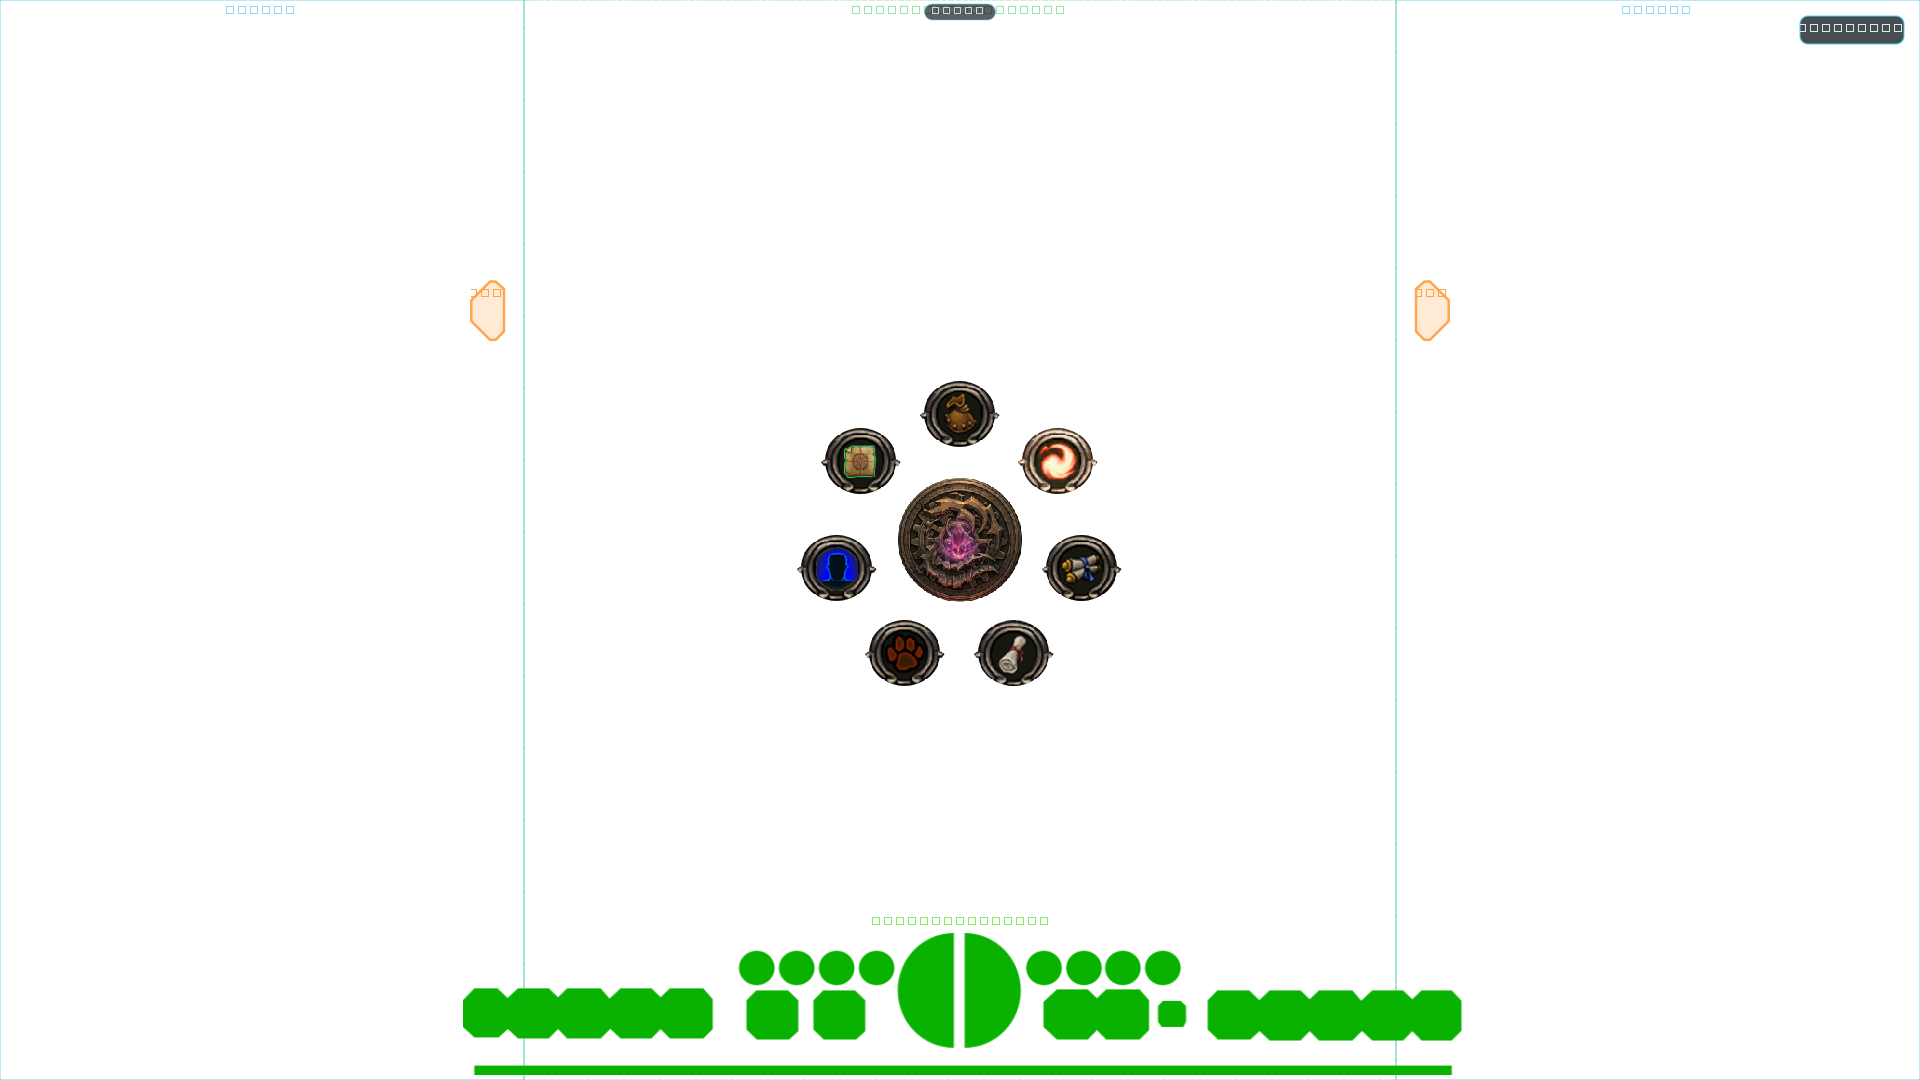
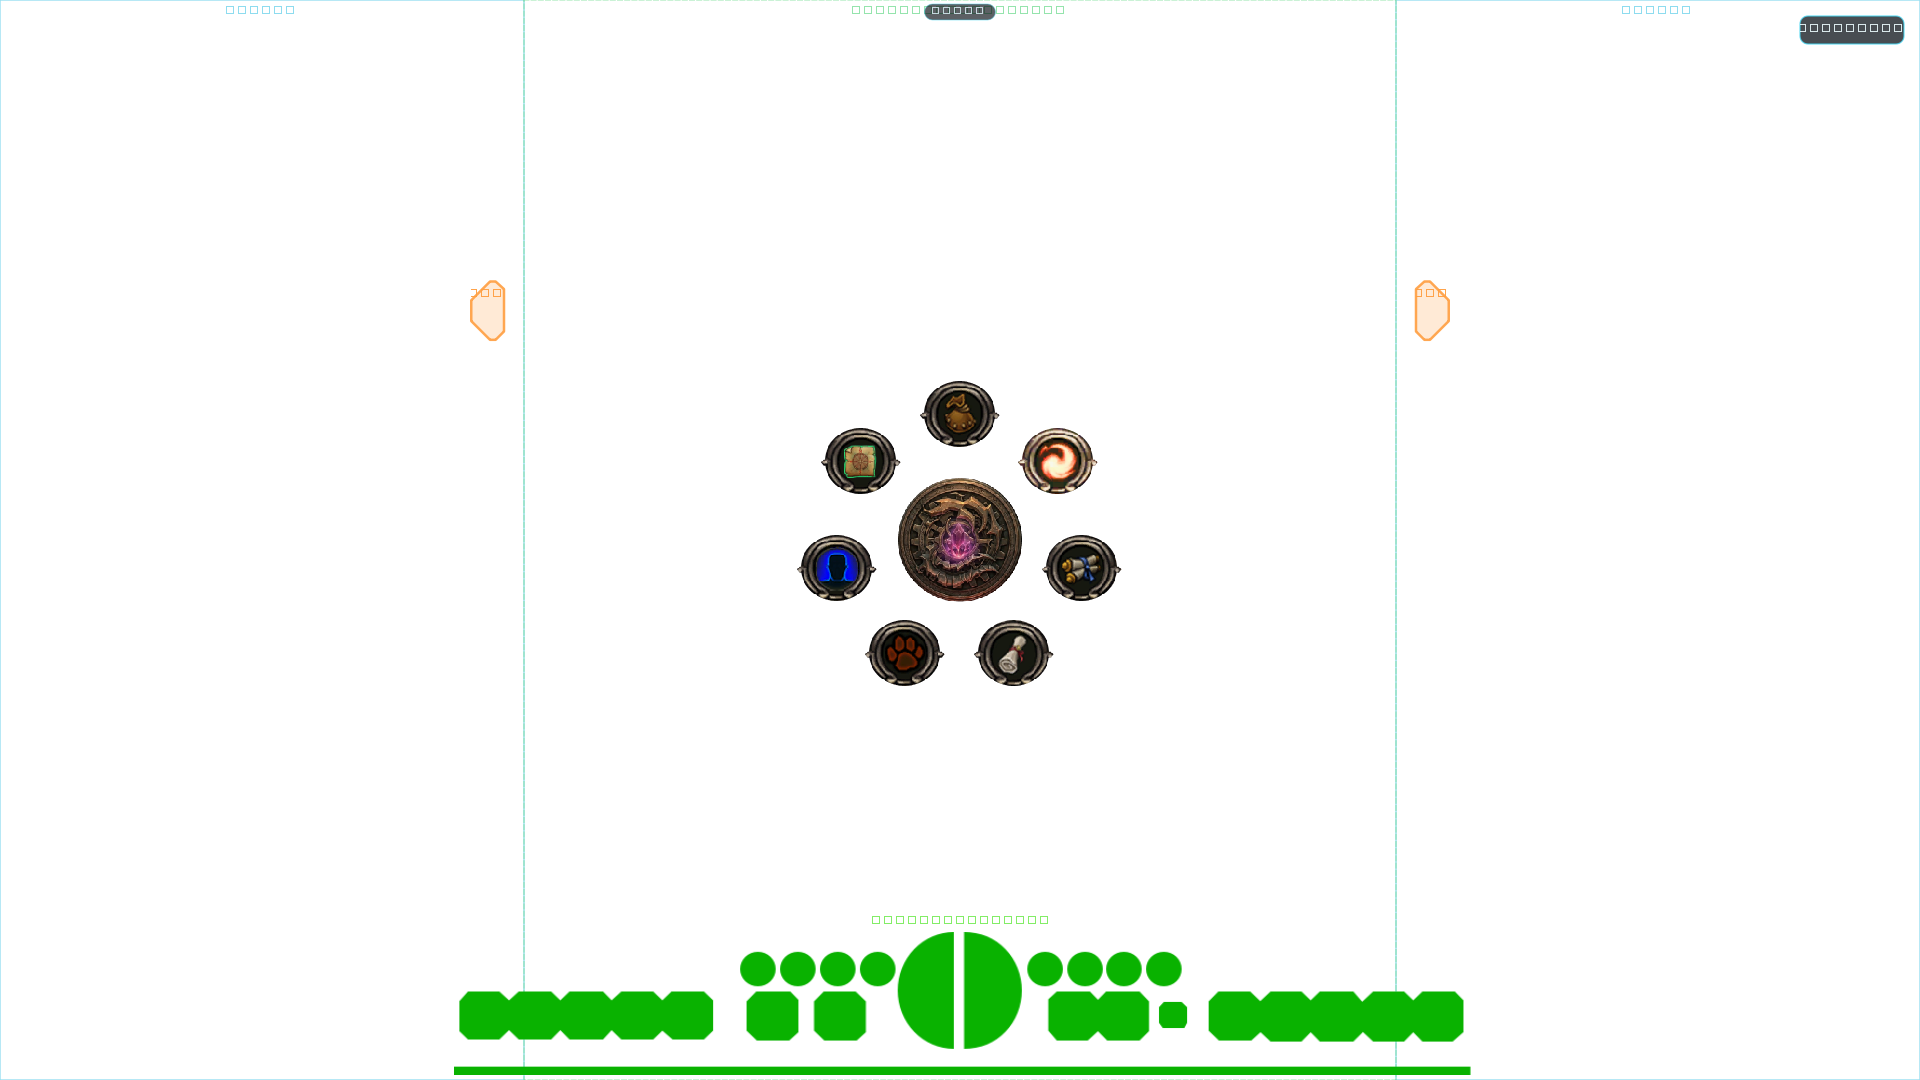
chore:ajuste da hud em alinhamento

diff --git a/tests/test_models.py b/tests/test_models.py
@@ -204,24 +204,24 @@ class CloseTabShapeTests(unittest.TestCase):
 
 
 class HudMaskGeometryTests(unittest.TestCase):
-    # hud_target_rect: em 1080p padrão, HUD centralizada na base, 925*1.08 x 136*1.05
+    # hud_target_rect: em 1080p padrão, HUD centralizada na base, 942*1.08 x 137*1.05
     # (SVG ampliado; largura escala com a ALTURA da janela, como os painéis).
     def test_target_rect_1080p(self):
         rect = Rect(0, 0, 1920, 1080)
         left, top, width, height = hud_target_rect(rect)
-        self.assertAlmostEqual(width, 925.0 * 1.08, places=3)   # 999.0
-        self.assertAlmostEqual(height, 136.0 * 1.05, places=3)  # 142.8
+        self.assertAlmostEqual(width, 942.0 * 1.08, places=3)   # 1017.36
+        self.assertAlmostEqual(height, 137.0 * 1.05, places=3)  # 143.85
         # 1080p: centro em 1920*0.501525 e base em 1080*0.996293 → nudge de ~3px
         # à direita e ~8px para cima em relação à posição original (0.5 / 1.0).
-        self.assertAlmostEqual(left, 1920.0 * 0.501525 - 925.0 * 1.08 / 2.0, places=3)  # 463.428
-        self.assertAlmostEqual(top, 1080.0 * 0.996293 - 136.0 * 1.05, places=3)          # 933.2
+        self.assertAlmostEqual(left, 1920.0 * 0.501525 - 942.0 * 1.08 / 2.0, places=3)  # 454.248
+        self.assertAlmostEqual(top, 1080.0 * 0.996293 - 137.0 * 1.05, places=3)          # 932.15
 
     # Janela deslocada: a HUD acompanha o retângulo (não a origem).
     def test_target_rect_offset(self):
         rect = Rect(100, 50, 1920, 1080)
         left, top, width, height = hud_target_rect(rect)
-        self.assertAlmostEqual(left, 100 + 1920.0 * 0.501525 - 925.0 * 1.08 / 2.0, places=3)
-        self.assertAlmostEqual(top, 50 + 1080.0 * 0.996293 - 136.0 * 1.05, places=3)
+        self.assertAlmostEqual(left, 100 + 1920.0 * 0.501525 - 942.0 * 1.08 / 2.0, places=3)
+        self.assertAlmostEqual(top, 50 + 1080.0 * 0.996293 - 137.0 * 1.05, places=3)
 
     # hud_mask_hit: sem máscara → sempre False (comportamento antigo preservado).
     def test_no_mask_never_hits(self):
@@ -236,11 +236,11 @@ class HudMaskGeometryTests(unittest.TestCase):
         data = [0, 1, 0, 0]
         mask = (rows, cols, list(data))
         rect = Rect(0, 0, 1920, 1080)
-        # hud_target_rect(1080p) = (463.428, 933.2, 999.0, 142.8). Canto sup-dir da HUD
+        # hud_target_rect(1080p) = (454.248, 932.15, 1017.36, 143.85). Canto sup-dir da HUD
         # cai em px=1, py=0 → data[0*2+1] = 1.
-        self.assertTrue(hud_mask_hit(mask, rect, 463.428 + 999.0 / 2 + 1, 933.2 + 71.4 - 1))
+        self.assertTrue(hud_mask_hit(mask, rect, 454.248 + 1017.36 / 2 + 1, 932.15 + 71.9 - 1))
         # Canto sup-esq → data[0] = 0.
-        self.assertFalse(hud_mask_hit(mask, rect, 463.428 + 10, 933.2 + 10))
+        self.assertFalse(hud_mask_hit(mask, rect, 454.248 + 10, 932.15 + 10))
         # Fora da região da HUD → False.
         self.assertFalse(hud_mask_hit(mask, rect, 960, 540))
 
@@ -263,7 +263,7 @@ class HudMaskAssetTests(unittest.TestCase):
     def test_mask_dimensions_match_svg(self):
         self._require_mask()
         rows, cols, data = self.mask
-        self.assertEqual((rows, cols), (136, 925))
+        self.assertEqual((rows, cols), (137, 942))
         self.assertEqual(len(data), rows * cols)
 
     def test_mask_has_filled_pixels(self):

diff --git a/src/torchbridge/models.py b/src/torchbridge/models.py
@@ -132,10 +132,10 @@ CLOSE_TAB_ANCHOR_FRACTION_OF_HEIGHT = 7 / 15
 # Ajuste fino: rode com show_calibration e veja a silhueta verde alinhada com a HUD real.
 HUD_ASSET = "hud-click-no-reset-variable.svg"
 HUD_REF_HEIGHT = 1080.0    # altura da tela em que o SVG foi desenhado
-# Calibração ago/2026: SVG 925x136 ampliado +8% de largura e +5% de altura em relação
+# Calibração ago/2026: SVG 942x137 ampliado +8% de largura e +5% de altura em relação
 # ao desenho (a área interativa real do jogo é um pouco maior que a silhueta do SVG).
-HUD_WIDTH_FRACTION_OF_HEIGHT = 925.0 * 1.08 / 1080.0  # largura da HUD = fração da ALTURA
-HUD_HEIGHT_FRACTION = 136.0 * 1.05 / 1080.0           # altura da HUD = fração da altura
+HUD_WIDTH_FRACTION_OF_HEIGHT = 942.0 * 1.08 / 1080.0  # largura da HUD = fração da ALTURA
+HUD_HEIGHT_FRACTION = 137.0 * 1.05 / 1080.0           # altura da HUD = fração da altura
 HUD_CENTER_FRACTION = 0.501525           # centro horizontal (~3px à direita do miolo em 1080p)
 HUD_BOTTOM_FRACTION = 0.996293           # base da HUD (~6px acima do rodapé em 1080p)
 
